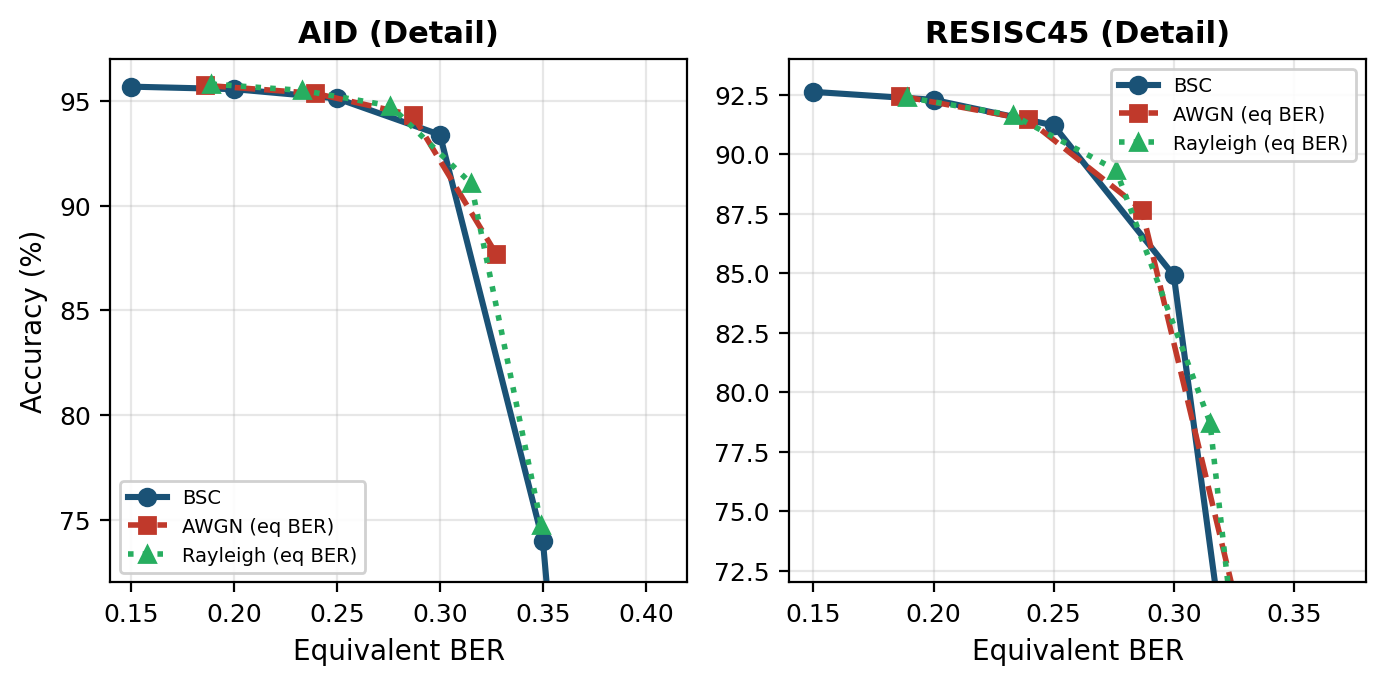
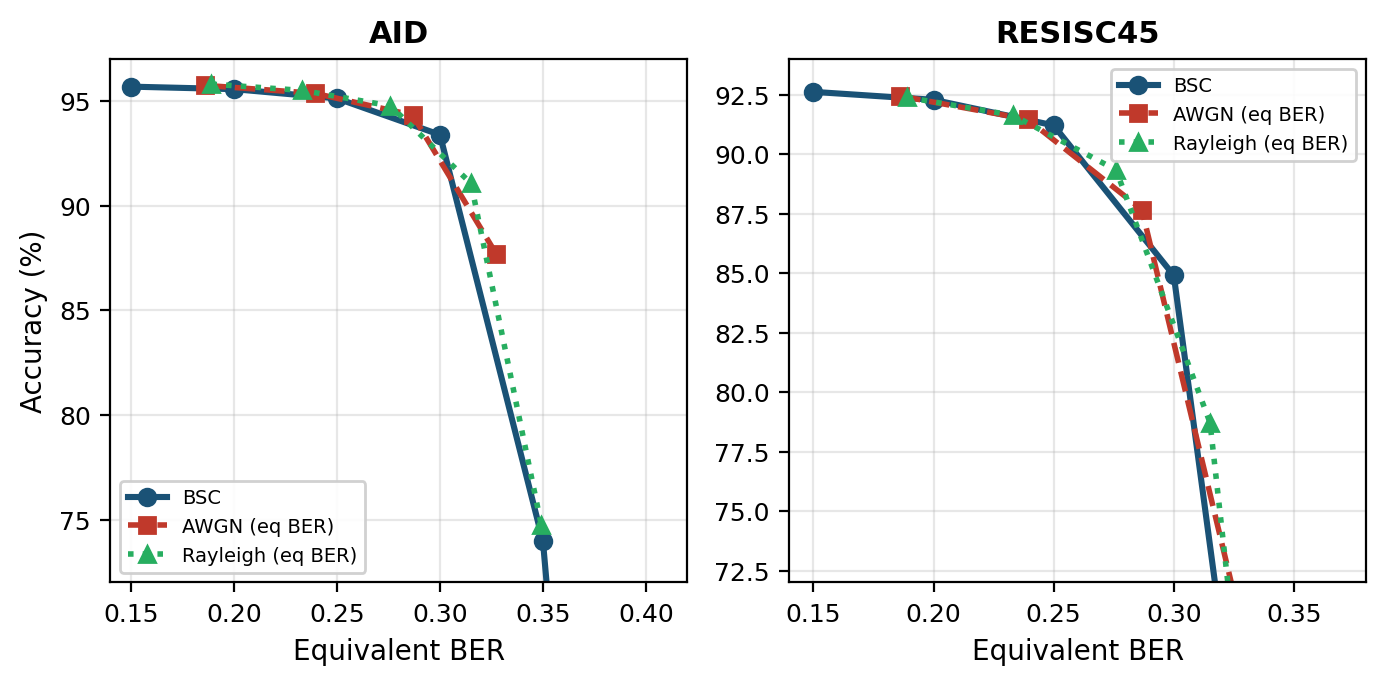
Remove (Detail) from channel comparison subplot titles

Changed region(s): [[0.6515, 0.0307, 0.8997, 0.0613], [0.2172, 0.0307, 0.3723, 0.0613]]

diff --git a/eval/gen_final_figures.py b/eval/gen_final_figures.py
@@ -145,7 +145,7 @@ for ax, ds, title in [(axes[0], 'aid', 'AID'), (axes[1], 'resisc45', 'RESISC45')
                        arrowprops=dict(arrowstyle='->', color='#666', lw=0.8),
                        bbox=dict(boxstyle='round,pad=0.15', fc='white', ec='#ccc', alpha=0.8))
     ax.set_xlabel('Equivalent BER')
-    ax.set_title(f'{title} (Detail)', fontweight='bold')
+    ax.set_title(title, fontweight='bold')
     ax.grid(True, alpha=0.3)
     ax.legend(loc='upper right' if ds == 'resisc45' else 'lower left', fontsize=7, framealpha=0.9)
     if ds == 'aid':
